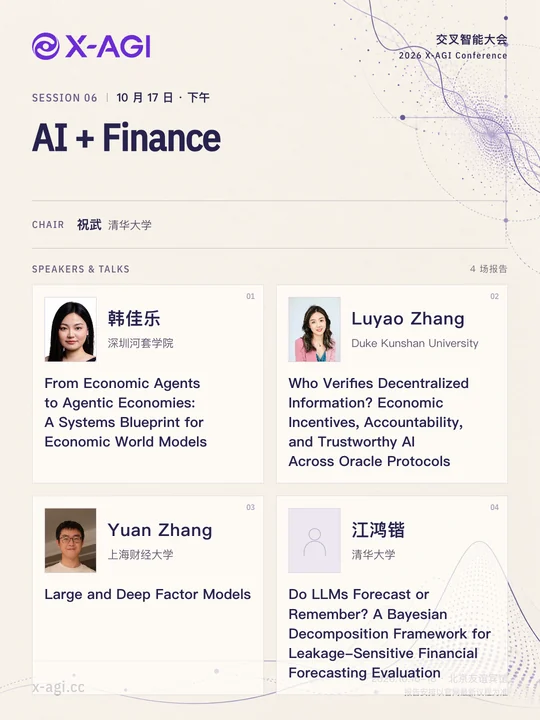
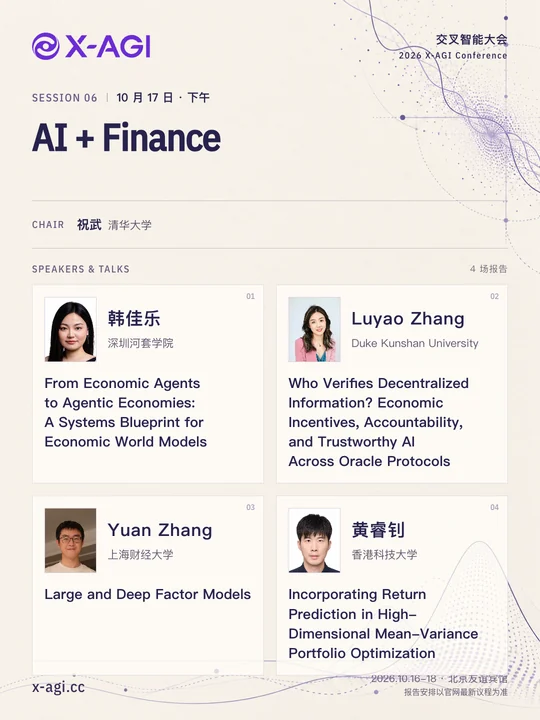
Refresh official program and add travel grant navigation

Changed region(s): [[0.5333, 0.7028, 0.9481, 0.9778], [0.0593, 0.9472, 0.1778, 0.9778]]

diff --git a/src/data/conference2026-program.generated.ts b/src/data/conference2026-program.generated.ts
@@ -17,7 +17,7 @@ export const conference2026ProgramSource = {
   "url": "https://docs.qq.com/sheet/DUnZzaE5Ia2pVRHRj?tab=BB08J2",
   "tabId": "BB08J2",
   "sheetName": "工作表1",
[2 lines of base64/hex data omitted]
   "sessions": [
     {
       "sourceTime": "10.17上午",
@@ -98,11 +98,14 @@ export const conference2026ProgramSource = {
           "talkTitle": "科学大模型的数据自动化：数据整理、推理合成与定制评测"
         },
         {
-          "name": "姚金哥"
+          "name": "姚金戈",
+          "affiliation": "至知研究院",
+          "talkTitle": "大语言模型评测的两种视角"
         },
         {
           "name": "张辉帅",
-          "affiliation": "北京大学"
+          "affiliation": "北京大学",
+          "talkTitle": "大语言模型持续优化能力评测"
         }
       ]
     },
@@ -127,7 +130,8 @@ export const conference2026ProgramSource = {
         },
         {
           "name": "陈焕然",
-          "affiliation": "清华大学"
+          "affiliation": "清华大学",
+          "talkTitle": "Nexus: Same Pretraining Loss, Better Downstream Generalization via Common Minima"
         }
       ]
     },
@@ -143,11 +147,13 @@ export const conference2026ProgramSource = {
       "speakers": [
         {
           "name": "张华枫",
-          "affiliation": "为沃科技"
+          "affiliation": "为沃科技",
+          "talkTitle": "Formal Method Harness for LLM agents"
         },
         {
-          "name": "丁鹏",
-          "affiliation": "羽医甘蓝"
+          "name": "李秀红",
+          "affiliation": "无问芯穹",
+          "talkTitle": "跨集群异构PD分离：挑战、设计与工程实践"
         },
         {
           "name": "张先轶",
@@ -187,9 +193,9 @@ export const conference2026ProgramSource = {
           "talkTitle": "Large and Deep Factor Models"
         },
         {
-          "name": "江鸿锴",
-          "affiliation": "清华大学",
-          "talkTitle": "Do LLMs Forecast or Remember? A Bayesian Decomposition Framework for Leakage-Sensitive Financial Forecasting Evaluation"
+          "name": "黄睿钊",
+          "affiliation": "香港科技大学",
+          "talkTitle": "Incorporating Return Prediction in High-Dimensional Mean-Variance Portfolio Optimization"
         }
       ]
     },
@@ -208,8 +214,9 @@ export const conference2026ProgramSource = {
       ],
       "speakers": [
         {
-          "name": "焦雨领",
-          "affiliation": "武汉大学"
+          "name": "史作强",
+          "affiliation": "清华大学",
+          "talkTitle": "Weighted Laplacian Flow: A Deterministic Particle Flow with Provable Convergence"
         },
         {
           "name": "周沛劼",
@@ -217,13 +224,14 @@ export const conference2026ProgramSource = {
           "talkTitle": "Simulation-Free Dynamic Unbalanced Optimal Transport and One-step Inference"
         },
         {
-          "name": "史作强",
-          "affiliation": "清华大学",
-          "talkTitle": "Weighted Laplacian Flow: A Deterministic Particle Flow with Provable Convergence"
+          "name": "陆一平",
+          "affiliation": "北京大学",
+          "talkTitle": "基于Bellman缺陷校正的科学机器学习与生成式人工智能的推理算法"
         },
         {
-          "name": "陆一平",
-          "affiliation": "北京大学"
+          "name": "焦雨领",
+          "affiliation": "武汉大学",
+          "talkTitle": "Offline Deep Q* Estimation with Diffusion Models"
         }
       ]
     },
@@ -239,7 +247,8 @@ export const conference2026ProgramSource = {
       "speakers": [
         {
           "name": "陈晴",
-          "affiliation": "同济大学"
+          "affiliation": "同济大学",
+          "talkTitle": "从灵感到实现：AI赋能教育中的创造力支持"
         },
         {
           "name": "涂尚卿",
@@ -248,7 +257,8 @@ export const conference2026ProgramSource = {
         },
         {
           "name": "黄沛",
-          "affiliation": "华栖云教育"
+          "affiliation": "华栖云教育",
+          "talkTitle": "面向高等教育的AGI落地：未来学习中心建设的实践与思考"
         }
       ]
     },
@@ -273,11 +283,13 @@ export const conference2026ProgramSource = {
         },
         {
           "name": "吴泰霖",
-          "affiliation": "西湖大学"
+          "affiliation": "西湖大学",
+          "talkTitle": "AI赋能聚变等离子体仿真、控制和诊断"
         },
         {
           "name": "谢超",
-          "affiliation": "清华大学"
+          "affiliation": "清华大学",
+          "talkTitle": "跨发育阶段精神共病的层级神经认知模型"
         },
         {
           "name": "李秋熠",
@@ -325,7 +337,8 @@ export const conference2026ProgramSource = {
       "speakers": [
         {
           "name": "刘子寅",
-          "affiliation": "MIT"
+          "affiliation": "MIT",
+          "talkTitle": "deep learning theory through the lens of theoretical physics"
         },
         {
           "name": "刘子鸣",
@@ -334,7 +347,8 @@ export const conference2026ProgramSource = {
         },
         {
           "name": "张耀宇",
-          "affiliation": "上海交通大学"
+          "affiliation": "上海交通大学",
+          "talkTitle": "Towards the Foundation of Deep Learning"
         }
       ]
     },
@@ -382,7 +396,8 @@ export const conference2026ProgramSource = {
       "speakers": [
         {
           "name": "周帆",
-          "affiliation": "上海财经大学"
+          "affiliation": "上海财经大学",
+          "talkTitle": "基于先验数据拟合网络的离线策略评估"
         },
         {
           "name": "马俊杰",

diff --git a/src/config/edition-status.ts b/src/config/edition-status.ts
@@ -65,8 +65,15 @@ export function currentEditionPageCopy(
       return {
         page,
         label: 'Rising Stars Poster',
-        description: 'Rising Stars Poster 申请要求、入选权益、报名信息与本科生差旅补助计划。',
+        description: 'Rising Stars Poster 申请要求、入选权益、报名信息与报名论文。',
         status: registrationOpen ? conference.registration.status : '申请通道确认中',
+      };
+    case 'travel-grant':
+      return {
+        page,
+        label: '差旅补助',
+        description: '本科生差旅补助计划：申请条件、材料、审核与报销流程，每人报销上限人民币 2500 元。',
+        status: conference.travelGrant.review.label,
       };
     case 'guide':
       return {

diff --git a/src/config/navigation.ts b/src/config/navigation.ts
@@ -6,6 +6,7 @@ export type EditionPage =
   | 'speakers'
   | 'schedule'
   | 'poster'
+  | 'travel-grant'
   | 'courses'
   | 'guide'
   | 'register';
@@ -28,6 +29,7 @@ const navigationByEdition: Record<EditionConfig['year'], readonly NavigationItem
     { page: 'about', label: '会议简介' },
     { page: 'schedule', label: '日程安排' },
     { page: 'poster', label: '海报展示' },
+    { page: 'travel-grant', label: '差旅补助' },
     { page: 'guide', label: '参会指南' },
     { page: 'register', label: '立即报名' },
   ],

diff --git a/docs/session-posters-2026.md b/docs/session-posters-2026.md
@@ -1,6 +1,6 @@
 # 2026 专题宣传海报
 
-交接日期：2026-09-16。
+交接日期：2026-09-17。
 本次为官方日程的 14 个 session 各制作一张宣传海报，并在首页 lower page 提供入口。
 首页以独立的“演讲嘉宾 / SPEAKERS”板块承载这 14 个专题，图片下方直接列出对应嘉宾姓名。
 随后为独立的“Poster 论文 / RISING STARS”板块，再衔接既有历届影像与组织信息。
@@ -22,8 +22,9 @@
 文字和头像不会交给图像模型重画。
 缺失题目与头像保留明确占位，不猜测题目、不合成人脸，也不从集体照识别人像。
 
-截至本次数据快照，孙茂松、姚金哥、张辉帅、张华清、丁鹏、陆一平、刘子寅和张耀宇尚无可用报告题目。
-姚金哥的单位也尚缺，部分主席与讲者尚无本地头像。
+2026-09-17 从同一腾讯源表重新同步 14 个专题，源表将“姚金哥”更正为“姚金戈”，并补齐其单位“至知研究院”及报告题目。
+张辉帅等讲者的报告题目、AI Infra 与 AI + Finance 的讲者名单，以及专题 07 的讲者顺序均随源表更新。
+截至本次数据快照，仅孙茂松、张华清尚无可用报告题目，部分主席与讲者尚无本地头像。
 专题 07 的“扩散模型的理论基础以及推理测算法”按源议程原文保留，其中“推理测算法”的表述需要内容负责人确认。
 补齐官方数据后重新生成海报，不直接修改导出的图片或生成清单。
 
@@ -69,6 +70,11 @@ npm test
 生产发布沿用 README 的 OSS 流程，并记录实际提交、远端状态与线上校验结果。
 
 ## 本地验证记录
+
+2026-09-17 重新导出并校验 14 张海报，51 次讲者安排中有 49 个题目和 2 个待定占位。
+127 项单元测试、Astro 类型检查、源素材校验、海报一致性校验和静态构建校验通过。
+在 1440、390、320 像素宽度下检查全部 7 个正式页面，30 项浏览器检查覆盖导航、补助页、旧锚点跳转和首页 Session 03 海报打开。
+本次检查与截图保存在忽略的 `output/program-travel-grant-20260917/`，生产发布状态另以发布凭据为准。
 
 2026-09-16 已通过现有 92 项单元测试、Astro 类型检查、源素材校验、海报一致性校验和静态构建校验。
 14 张导出图均为 1080×1440，排版检查未发现卡片文字越界或标题覆盖主持人区域。

diff --git a/docs/travel-grant-20260905.md b/docs/travel-grant-20260905.md
@@ -26,7 +26,8 @@
 
 ## 官网入口
 
-- `/guide/#travel-grant` 在“交通与住宿”下方展示完整补助说明。
+- `/travel-grant/` 展示完整补助说明，2026 顶部导航提供独立的“差旅补助”入口。
+- `/guide/#travel-grant` 与 `/poster/#travel-grant` 保留详情链接，兼容既有分享地址。
 - `/register/` 在票价表前展示补助提示，并链接至完整说明。
 - `/poster/` 在入选权益处展示补助摘要及详情入口。
 
@@ -35,6 +36,13 @@
 已读取二维码对应的百格页面，确认其 `eventId` 为 `9252233`，与官网入口一致。
 
 ## 验证记录
+
+2026-09-17 将完整说明移至独立 `/travel-grant/` 页面，顶部导航增加“差旅补助”，并更新 Poster、指南与报名页入口。
+保留 `/poster/#travel-grant` 和 `/guide/#travel-grant` 的详情链接。
+在 1440、390、320 像素宽度下核对补助金额、申请条件、申请流程与报名目标，并通过原生键盘操作验证导航和旧锚点入口。
+本次截图与检查记录保存在忽略的 `output/program-travel-grant-20260917/`。
+
+以下为 2026-09-05 初次上线前的验证记录。
 
 `npm run check` 通过，0 errors、0 warnings；两个 hints 来自已有 `output/release-20260905/after/` 下的构建脚本。
 清除旧构建目录后执行 `npm run build`，源素材归档校验与构建产物校验均通过。
